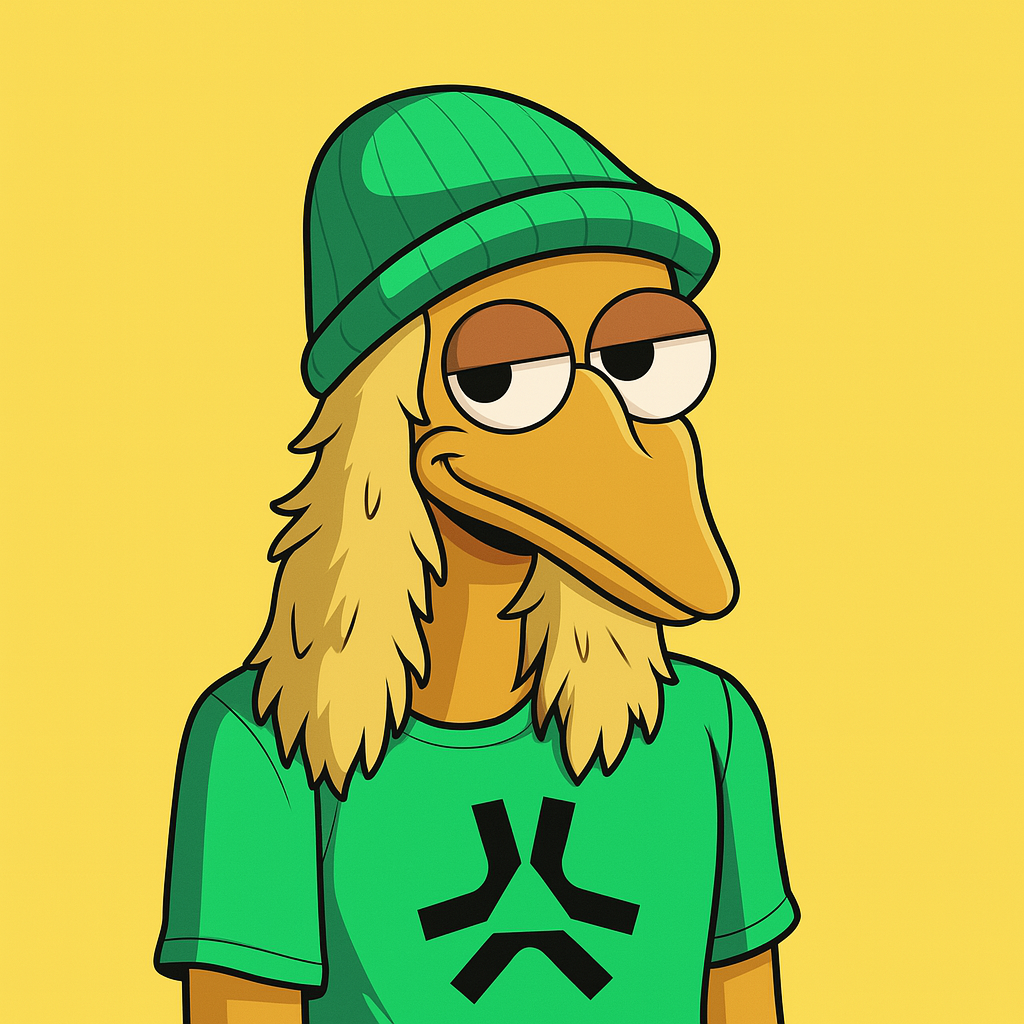
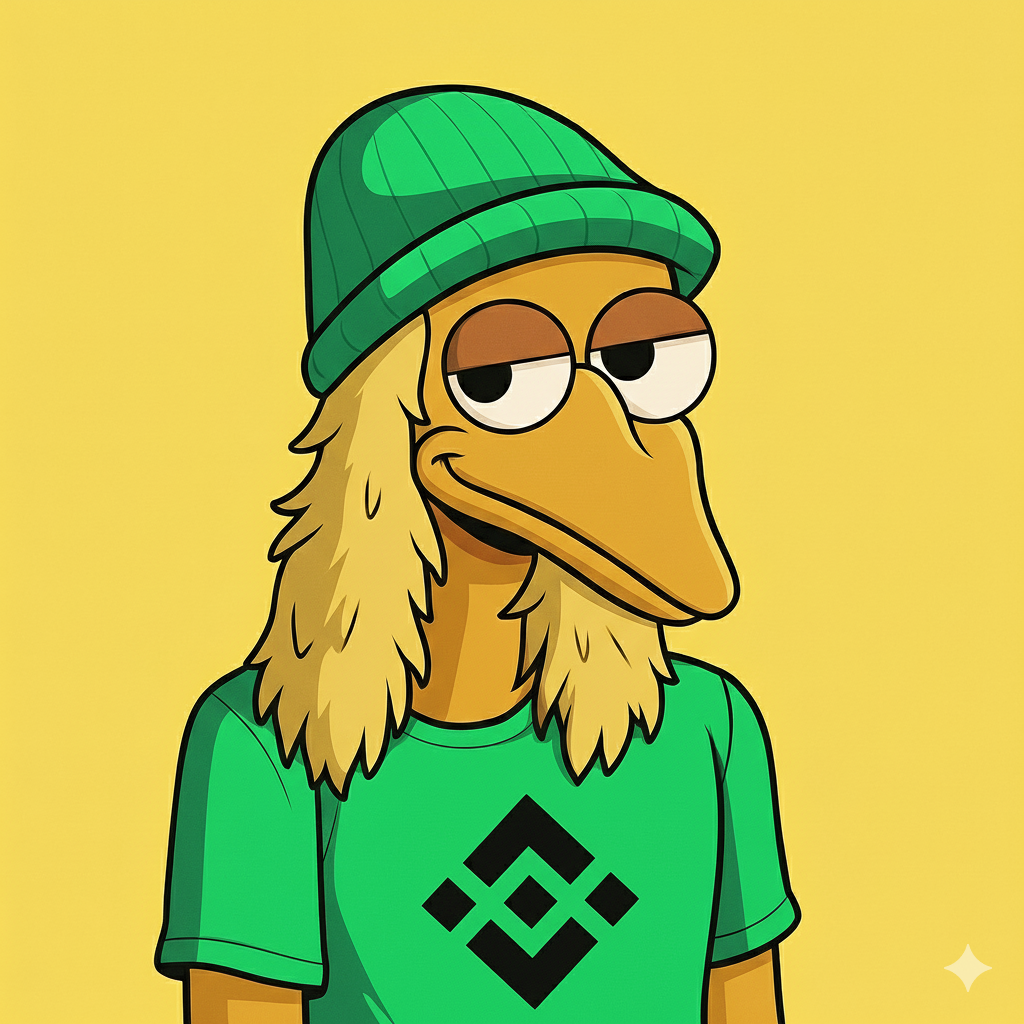
1

diff --git a/index.html b/index.html
@@ -124,7 +124,7 @@
                 <div class="friends-grid">
                     <div class="friend-card">
                         <img class="friend-avatar" src="images/tom.jpg" alt="Tom">
-                        <span>Tom</span>
+                        <span>CZ</span>
                     </div>
                     <div class="friend-card">
                         <img class="friend-avatar" src="images/Pepe.png" alt="Pepe">
@@ -132,7 +132,7 @@
                     </div>
                     <div class="friend-card">
                         <img class="friend-avatar" src="images/abs.jpg" alt="Andy">
-                        <span>Andy</span>
+                        <span>Binance</span>
                     </div>
                     <div class="friend-card">
                         <img class="friend-avatar" src="images/Brett.png" alt="Brett">
@@ -158,7 +158,7 @@
                     </div>
                     <div class="partner-card">
                         <img class="partner-logo" src="images/abs.jpg" alt="ABS">
-                        <span>ABS</span>
+                        <span>Binance</span>
                     </div>
                 </div>
             </div>
